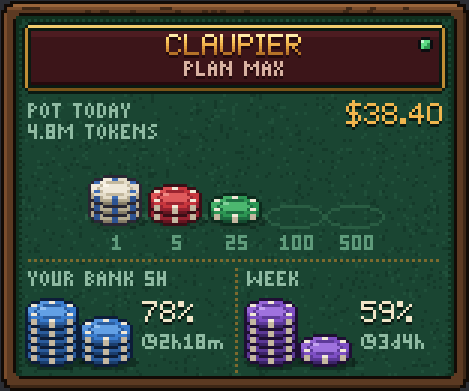
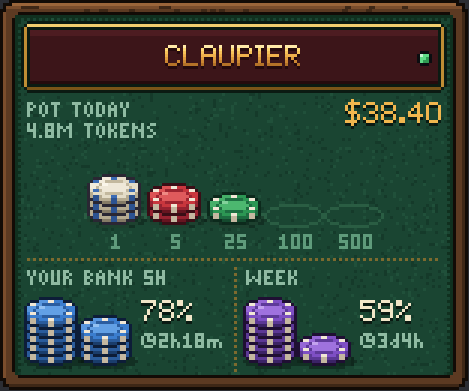
Mesa: el cartel solo con el nombre
Sin el texto del plan; el nombre, el piloto y el fantasma quedan centrados en vertical. Los problemas de sesión siguen en el piloto y en la banca.

Changed region(s): [[0.0, 0.0, 1.0, 1.0], [0.2985, 0.7673, 0.4179, 0.8286]]

diff --git a/src/designs/mesa.ts b/src/designs/mesa.ts
@@ -7,7 +7,6 @@
 import {
   periodLabel,
   statusText,
-  statusLine,
   bankUrgency,
   bankValue,
   formatMoney,
@@ -194,7 +193,7 @@ export class Mesa implements Design {
     const shows = settings?.bankShows ?? "left";
 
     g.drawImage(layer("mesa:fondo", W, H, (b) => this.drawTable(b)), 0, 0);
-    this.drawSign(g, plan?.plan, plan?.status, snap?.ghost ?? false);
+    this.drawSign(g, plan?.status, snap?.ghost ?? false);
 
     // Pozo: su nombre y los tokens a la izquierda, el gasto en dorado a la derecha
     const period = settings?.period ?? "today";
@@ -253,7 +252,8 @@ export class Mesa implements Design {
     for (let y = 89; y < BANK_BASE + 2; y += 2) g.fillRect(HALF, y, 1, 1);
   }
 
-  private drawSign(g: CanvasRenderingContext2D, planName: string | null | undefined, status: PlanStatus | undefined, ghost: boolean) {
+  /** El cartel: solo el nombre, centrado, con el piloto de estado y el fantasma. */
+  private drawSign(g: CanvasRenderingContext2D, status: PlanStatus | undefined, ghost: boolean) {
     g.drawImage(
       layer("mesa:cartel", W, 34, (b) => {
         const { x, y, w, h } = SIGN;
@@ -266,19 +266,14 @@ export class Mesa implements Design {
         rect(b, x + 3, y + 3, w - 6, 2, C.signLight);
         rect(b, x + 3, y + h - 4, w - 6, 1, C.signDark);
         const logo = "CLAUPIER";
-        drawText(b, logo, x + Math.floor((w - textWidth(logo, "big", true)) / 2), y + 4, LOGO_GRADIENT, { font: "big", shadow: C.signDark });
+        drawText(b, logo, x + Math.floor((w - textWidth(logo, "big", true)) / 2), y + 8, LOGO_GRADIENT, { font: "big", shadow: C.signDark });
       }),
       0,
       0,
     );
     const { x, y, w } = SIGN;
-    drawLed(g, x + w - 10, y + 5, status);
-    if (ghost) drawGhost(g, x + 6, y + 5);
-
-    // Debajo del nombre: el plan, o el problema si no se pudo leer.
-    const ok = status === "ok";
-    const line = ok ? (planName ? `PLAN ${planName.toUpperCase()}` : "") : statusLine(status);
-    if (line) drawText(g, line, x + Math.floor((w - textWidth(line)) / 2), y + 13, ok ? C.signText : C.warn, { shadow: C.signDark });
+    drawLed(g, x + w - 10, y + 10, status);
+    if (ghost) drawGhost(g, x + 6, y + 9);
   }
 
   /** El porcentaje de una banca y su reinicio, desde `x`. */
